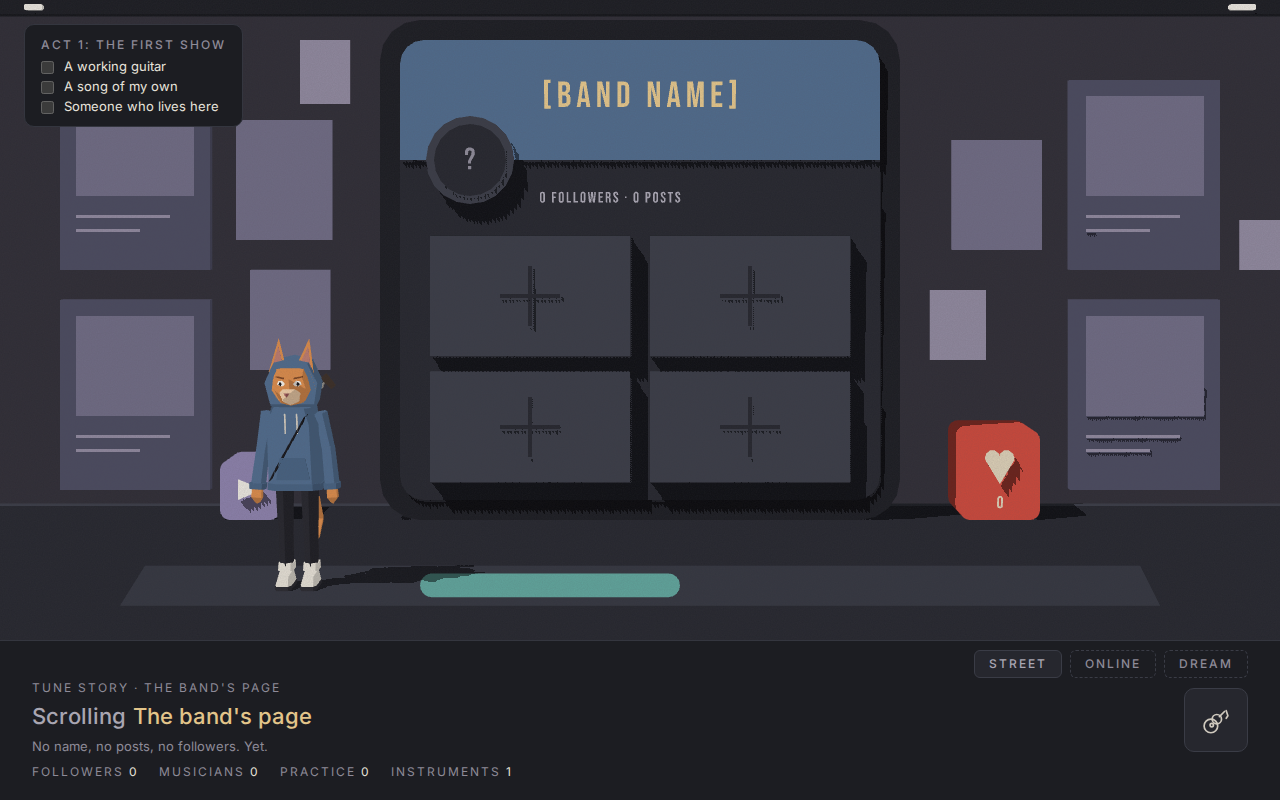
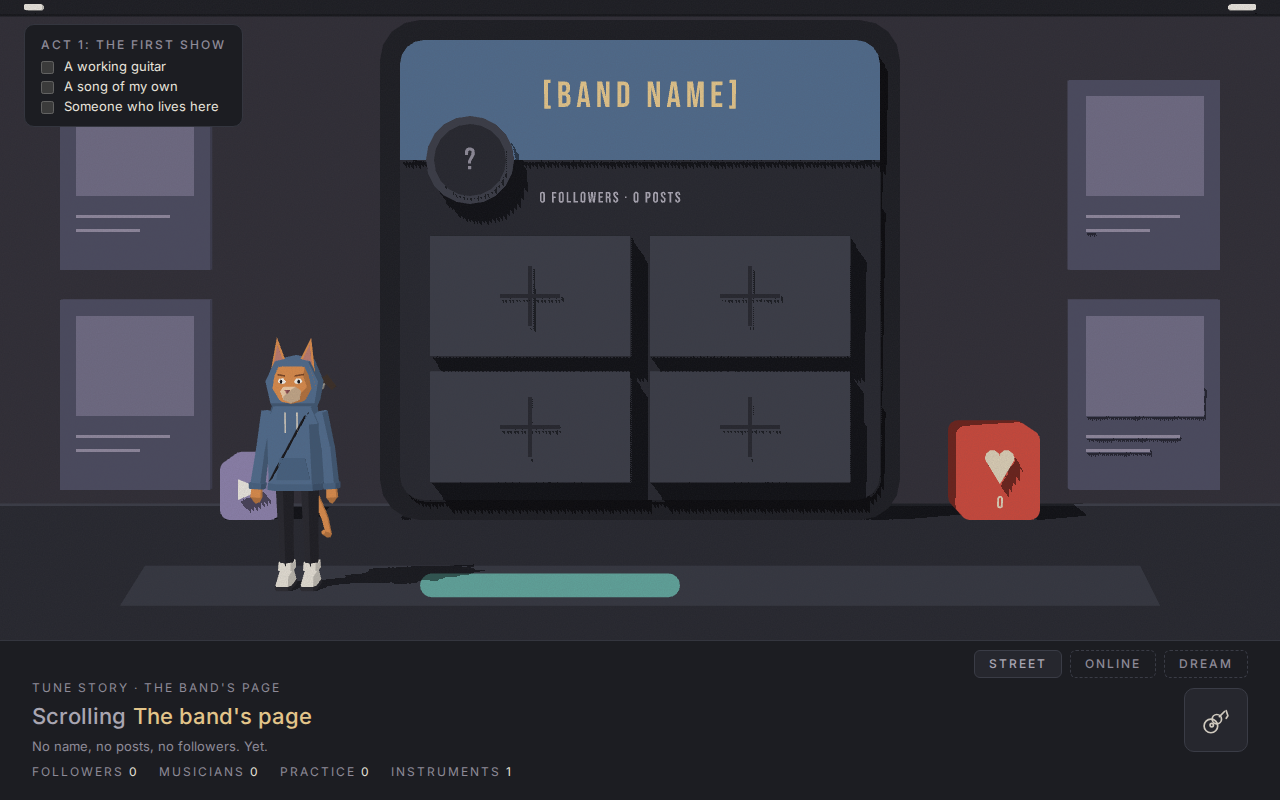
Keep the feed's far posts to the four the reference art draws
The six extra posts further off had no counterpart in docs/design/rooms/feed.svg, the
room's layout source. The art's four posts already carry the depth ramp.

diff --git a/art/blender/feed.py b/art/blender/feed.py
@@ -52,18 +52,9 @@ HEADER = (400, 40, 480, 120)
 AVATAR, AVATAR_RADIUS = (470, 160), 44
 SLOTS = ((430, 236, 200, 120), (650, 236, 200, 120), (430, 372, 200, 110), (650, 372, 200, 110))
 #: Blank posts hanging in the dark beyond the phone, the feed scrolling away: the art's four, in
-#: pixel rects, this far behind the phone, the near end of the depth ramp's second layer; and
-#: smaller ones further off, in its third and fourth, (pixel rect, metres behind the phone).
+#: pixel rects, this far behind the phone, the near end of the depth ramp's second layer.
 POSTS = ((60, 80, 150, 190), (60, 300, 150, 190), (1070, 80, 150, 190), (1070, 300, 150, 190))
 POSTS_BEHIND = 8.0
-FAR_POSTS = (
-    ((236, 120, 96, 120), 30.0),
-    ((250, 270, 80, 100), 30.0),
-    ((952, 140, 90, 110), 30.0),
-    ((300, 40, 50, 64), 80.0),
-    ((930, 290, 56, 70), 80.0),
-    ((1240, 220, 40, 50), 80.0),
-)
 #: The like button standing on the floor right of the phone, and the play button on its left.
 LIKE, PLAY = (960, 430, 80, 90), (220, 460, 60, 60)
 #: The scroll bar's thumb on the floor, a pixel rect.
@@ -218,9 +209,8 @@ class Feed:
     # --- The void. -------------------------------------------------------------------------------
 
     def void(self) -> None:
-        """The dark the phone stands in, and the feed's blank posts hanging in it, scrolling away:
-        each a step lighter and bluer in the depth ramp the further off it is. The art's four show
-        their picture and caption in the ramp's next two tones, as the art draws them."""
+        """The dark the phone stands in, and the art's four blank posts hanging in it, a step
+        lighter and bluer in the depth ramp, their picture and caption in its next two tones."""
         room, lens = self.room, self.lens
         far = room.body()
         z = self.wall - POSTS_BEHIND
@@ -229,8 +219,6 @@ class Feed:
             far.hull(lens.outline(rect(x + 16, y + 16, w - 32, 100), z + 0.01, 0.01), "depth-2")
             for length, row in ((94, 135), (64, 149)):
                 far.hull(lens.outline(rect(x + 16, y + row, length, 3), z + 0.01, 0.01), "depth-3")
-        for (x, y, w, h), behind in FAR_POSTS:
-            room.far(far, lens.outline(rect(x, y, w, h), self.wall - behind, 0.1))
         far.finish("far")
         void = room.body()
         void.hull(lens.box(-600, -400, 2500, 1400, -300, 1), "void")
